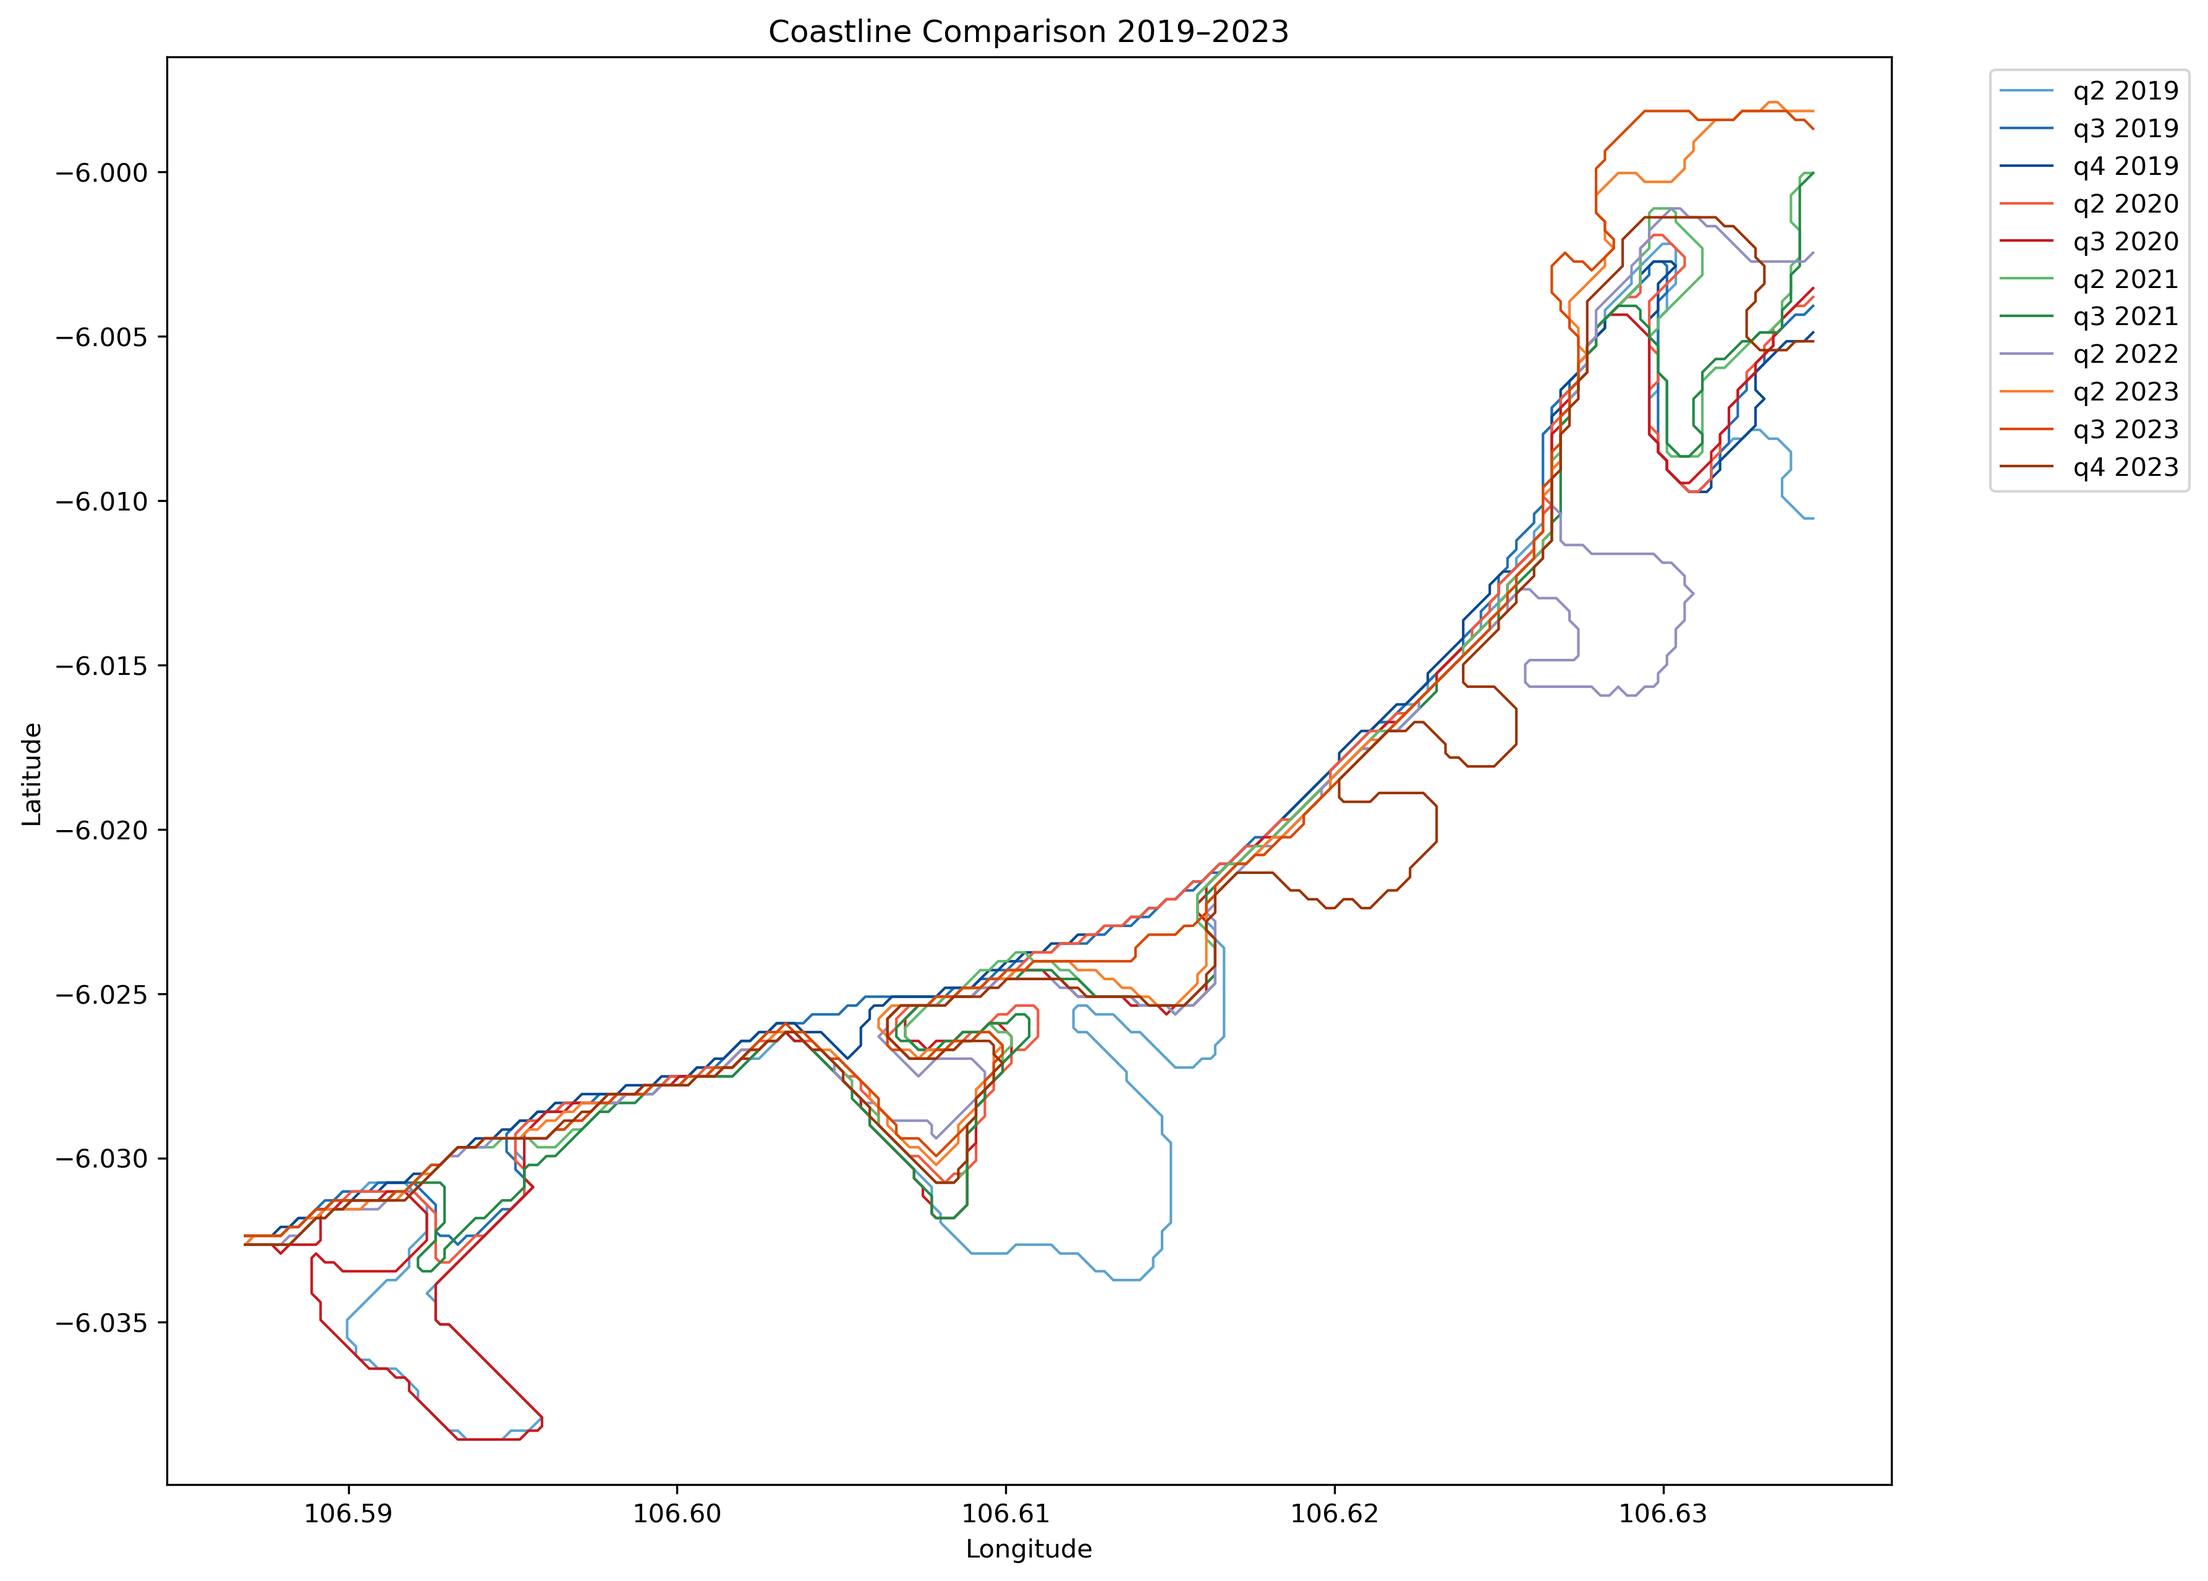
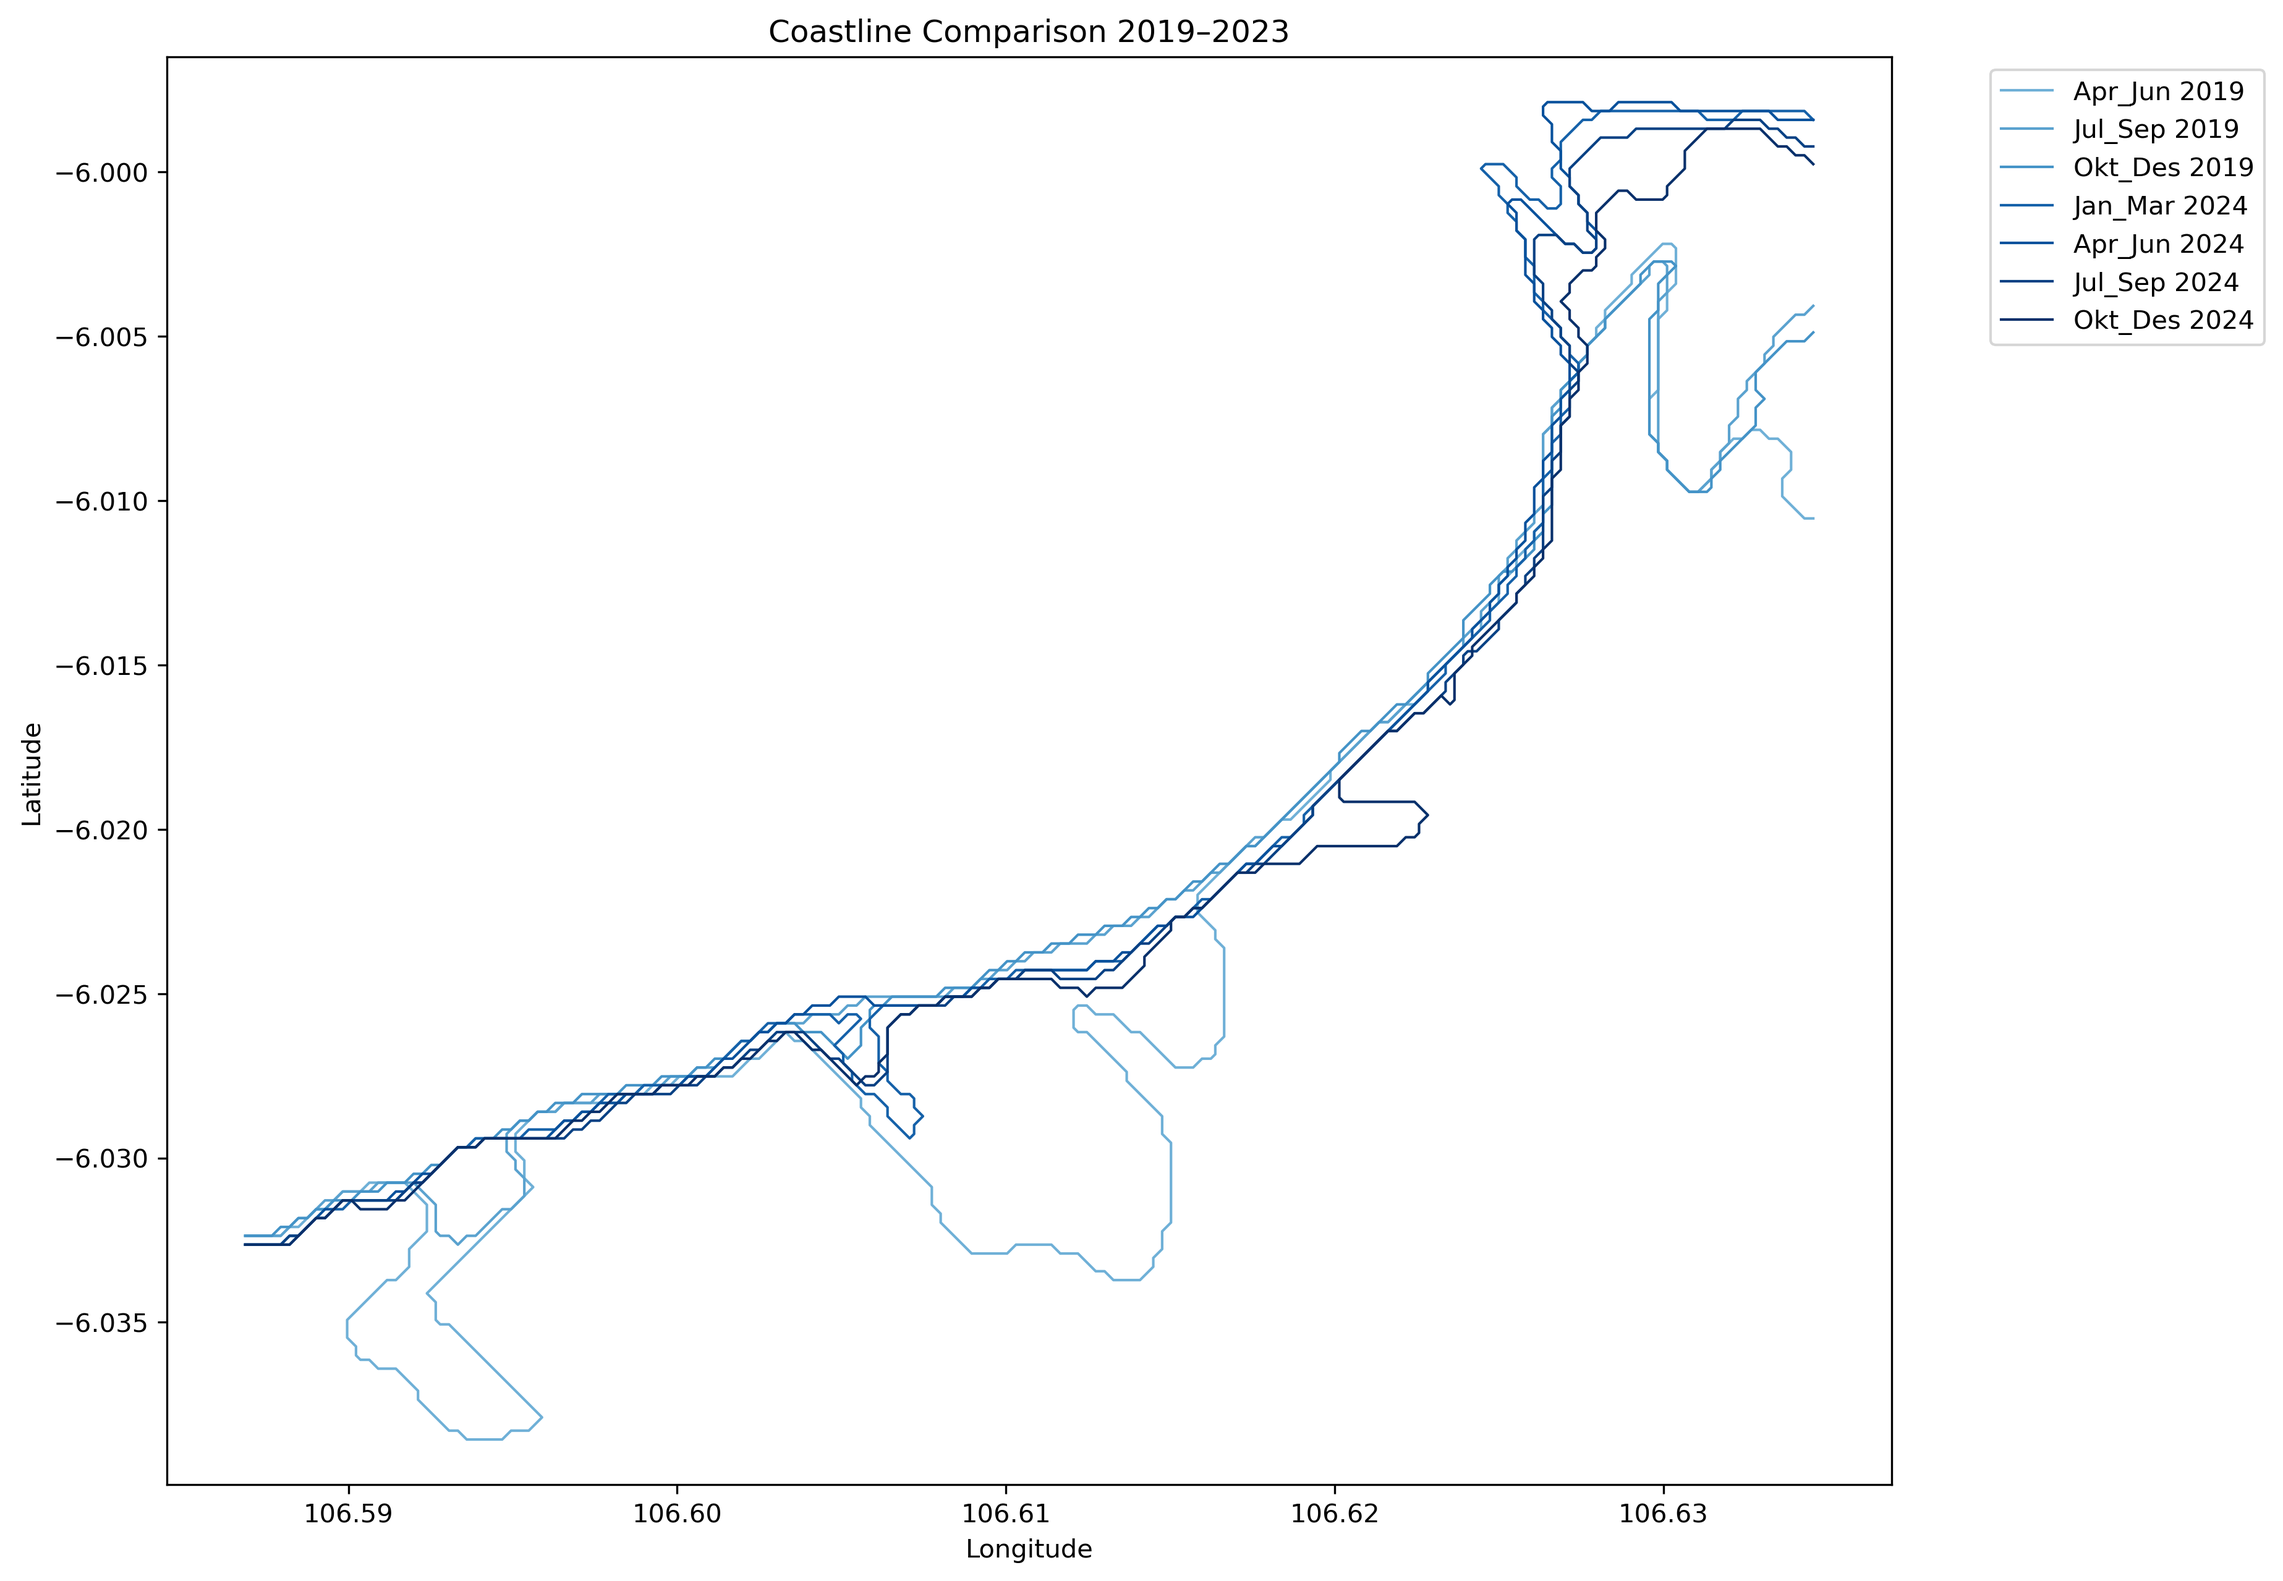
gradasi average coastline

diff --git a/modules/combine_hasil.py b/modules/combine_hasil.py
@@ -116,7 +116,6 @@ def generate_coastline_all():
     # Buat gradasi warna untuk seluruh tahun dalam range 0.3–1.0
     cmap = cm.Blues
     colors = cmap(np.linspace(0.3, 1.0, len(years)))
-
     # Mapping: tahun -> warna
     color_map = {year: colors[i] for i, year in enumerate(years)}
     
@@ -150,18 +149,23 @@ def generate_coastline_all():
 
 def generate_coastline_compare(startYear, endYear):
     coastlines_all = generate_coastline_all()
-    years = [startYear, endYear+1]
-    periods = ["Jan_Jun", "Jul_Des", "Jan_Mar", "Apr_Jun", "Jul_Sep", "Okt_Des"]
-    colors = cm.tab20(np.linspace(0, 1, len(years) * len(periods)))  # palet warna
-    
-    # Mapping kombinasi (year, period) ke warna unik
-    color_map = {}
-    grad_positions = [0.55, 0.9, 0.3, 0.55, 0.75, 0.9]
 
+    # Tahun yang dipakai
+    years = [startYear, endYear + 1]
+    periods = ["Jan_Jun", "Jul_Des", "Jan_Mar", "Apr_Jun", "Jul_Sep", "Okt_Des"]
+
+    # Total kombinasi
+    total_items = len(years) * len(periods)
+    cmap = cm.Blues  # pilih palette
+    grad_colors = cmap(np.linspace(0.3, 1.0, total_items))  # 30%–100% supaya kontras
+
+    # === Mapping kombinasi (year, period) -> warna ===
+    color_map = {}
+    idx = 0
     for y in years:
-        cmap = year_cmap_map[y]
-        for idx, p in enumerate(periods):
-            color_map[(y, p)] = cmap(grad_positions[idx])
+        for p in periods:
+            color_map[(y, p)] = grad_colors[idx]
+            idx += 1
 
     # --- Plot gabungan ---
     plt.figure(figsize=(12, 10))
@@ -196,7 +200,7 @@ def generate_coastline_compare(startYear, endYear):
 
     out_path = os.path.join(OUTPUT_DIR, f"coastline_compare_{startYear}-{endYear}.png")
     plt.savefig(out_path, dpi=300, bbox_inches='tight')
-    plt.show()
+    # plt.show()
 
     return out_path
 
@@ -246,7 +250,10 @@ def avg_coastline(x, num_points=1000):
     
     # === Visualisasi ===
     plt.figure(figsize=(10, 8))
-    colors = plt.cm.viridis(np.linspace(0, 1, len(avg_coastlines)))
+    
+    # Buat gradasi warna untuk seluruh tahun dalam range 0.3–1.0
+    cmap = cm.Blues
+    colors = cmap(np.linspace(0.3, 1.0, len(avg_coastlines)))
 
     for i, data in enumerate(avg_coastlines):
         xs, ys = data["mean_coastline"][:, 0], data["mean_coastline"][:, 1]
@@ -259,8 +266,9 @@ def avg_coastline(x, num_points=1000):
     plt.axis("equal")
     # plt.savefig(os.path.join(OUTPUT_DIR, f"coastline_combined_{x}.png"), dpi=300, bbox_inches='tight')
     plt.savefig(os.path.join(OUTPUT_DIR, f"coastline_combined_{x}.png"),dpi=300, bbox_inches='tight')
-    plt.show()
+    # plt.show()
 
+## Harusnya ini udh gadipake lagi (pake dari axel)
 def generate_coastline_compare_avg(curYear, num_points=1000):
     coastlines_all = generate_coastline_all()
     year_groups = {
@@ -300,7 +308,7 @@ def generate_coastline_compare_avg(curYear, num_points=1000):
     # plt.savefig(f"coastlines/coastline_avg_{curYear}-{curYear+1}.png", dpi=300, bbox_inches='tight')
     out_path = os.path.join(OUTPUT_DIR, f"coastline_avg_{curYear}-{curYear+1}.png")
     plt.savefig(out_path, dpi=300, bbox_inches='tight')
-    plt.show()
+    # plt.show()
 
 def fig_to_array(fig):
     buf = io.BytesIO()

diff --git a/modules/main.py b/modules/main.py
@@ -6,10 +6,10 @@ import landsat_hasil
 import combine_hasil
 
 # General Coastline Landsat 
-combine_hasil.generate_coastline_all()
-# combine_hasil.avg_coastline(2)
-# combine_hasil.avg_coastline(4)
-# combine_hasil.avg_coastline(6)
+# combine_hasil.generate_coastline_all()
+combine_hasil.avg_coastline(2)
+combine_hasil.avg_coastline(4)
+combine_hasil.avg_coastline(6)
 # combine_hasil.generate_coastline_compare(2019, 2023)
 # combine_hasil.generate_coastline_compare(2023)
 # combine_hasil.generate_coastline_compare_avg(2013)
